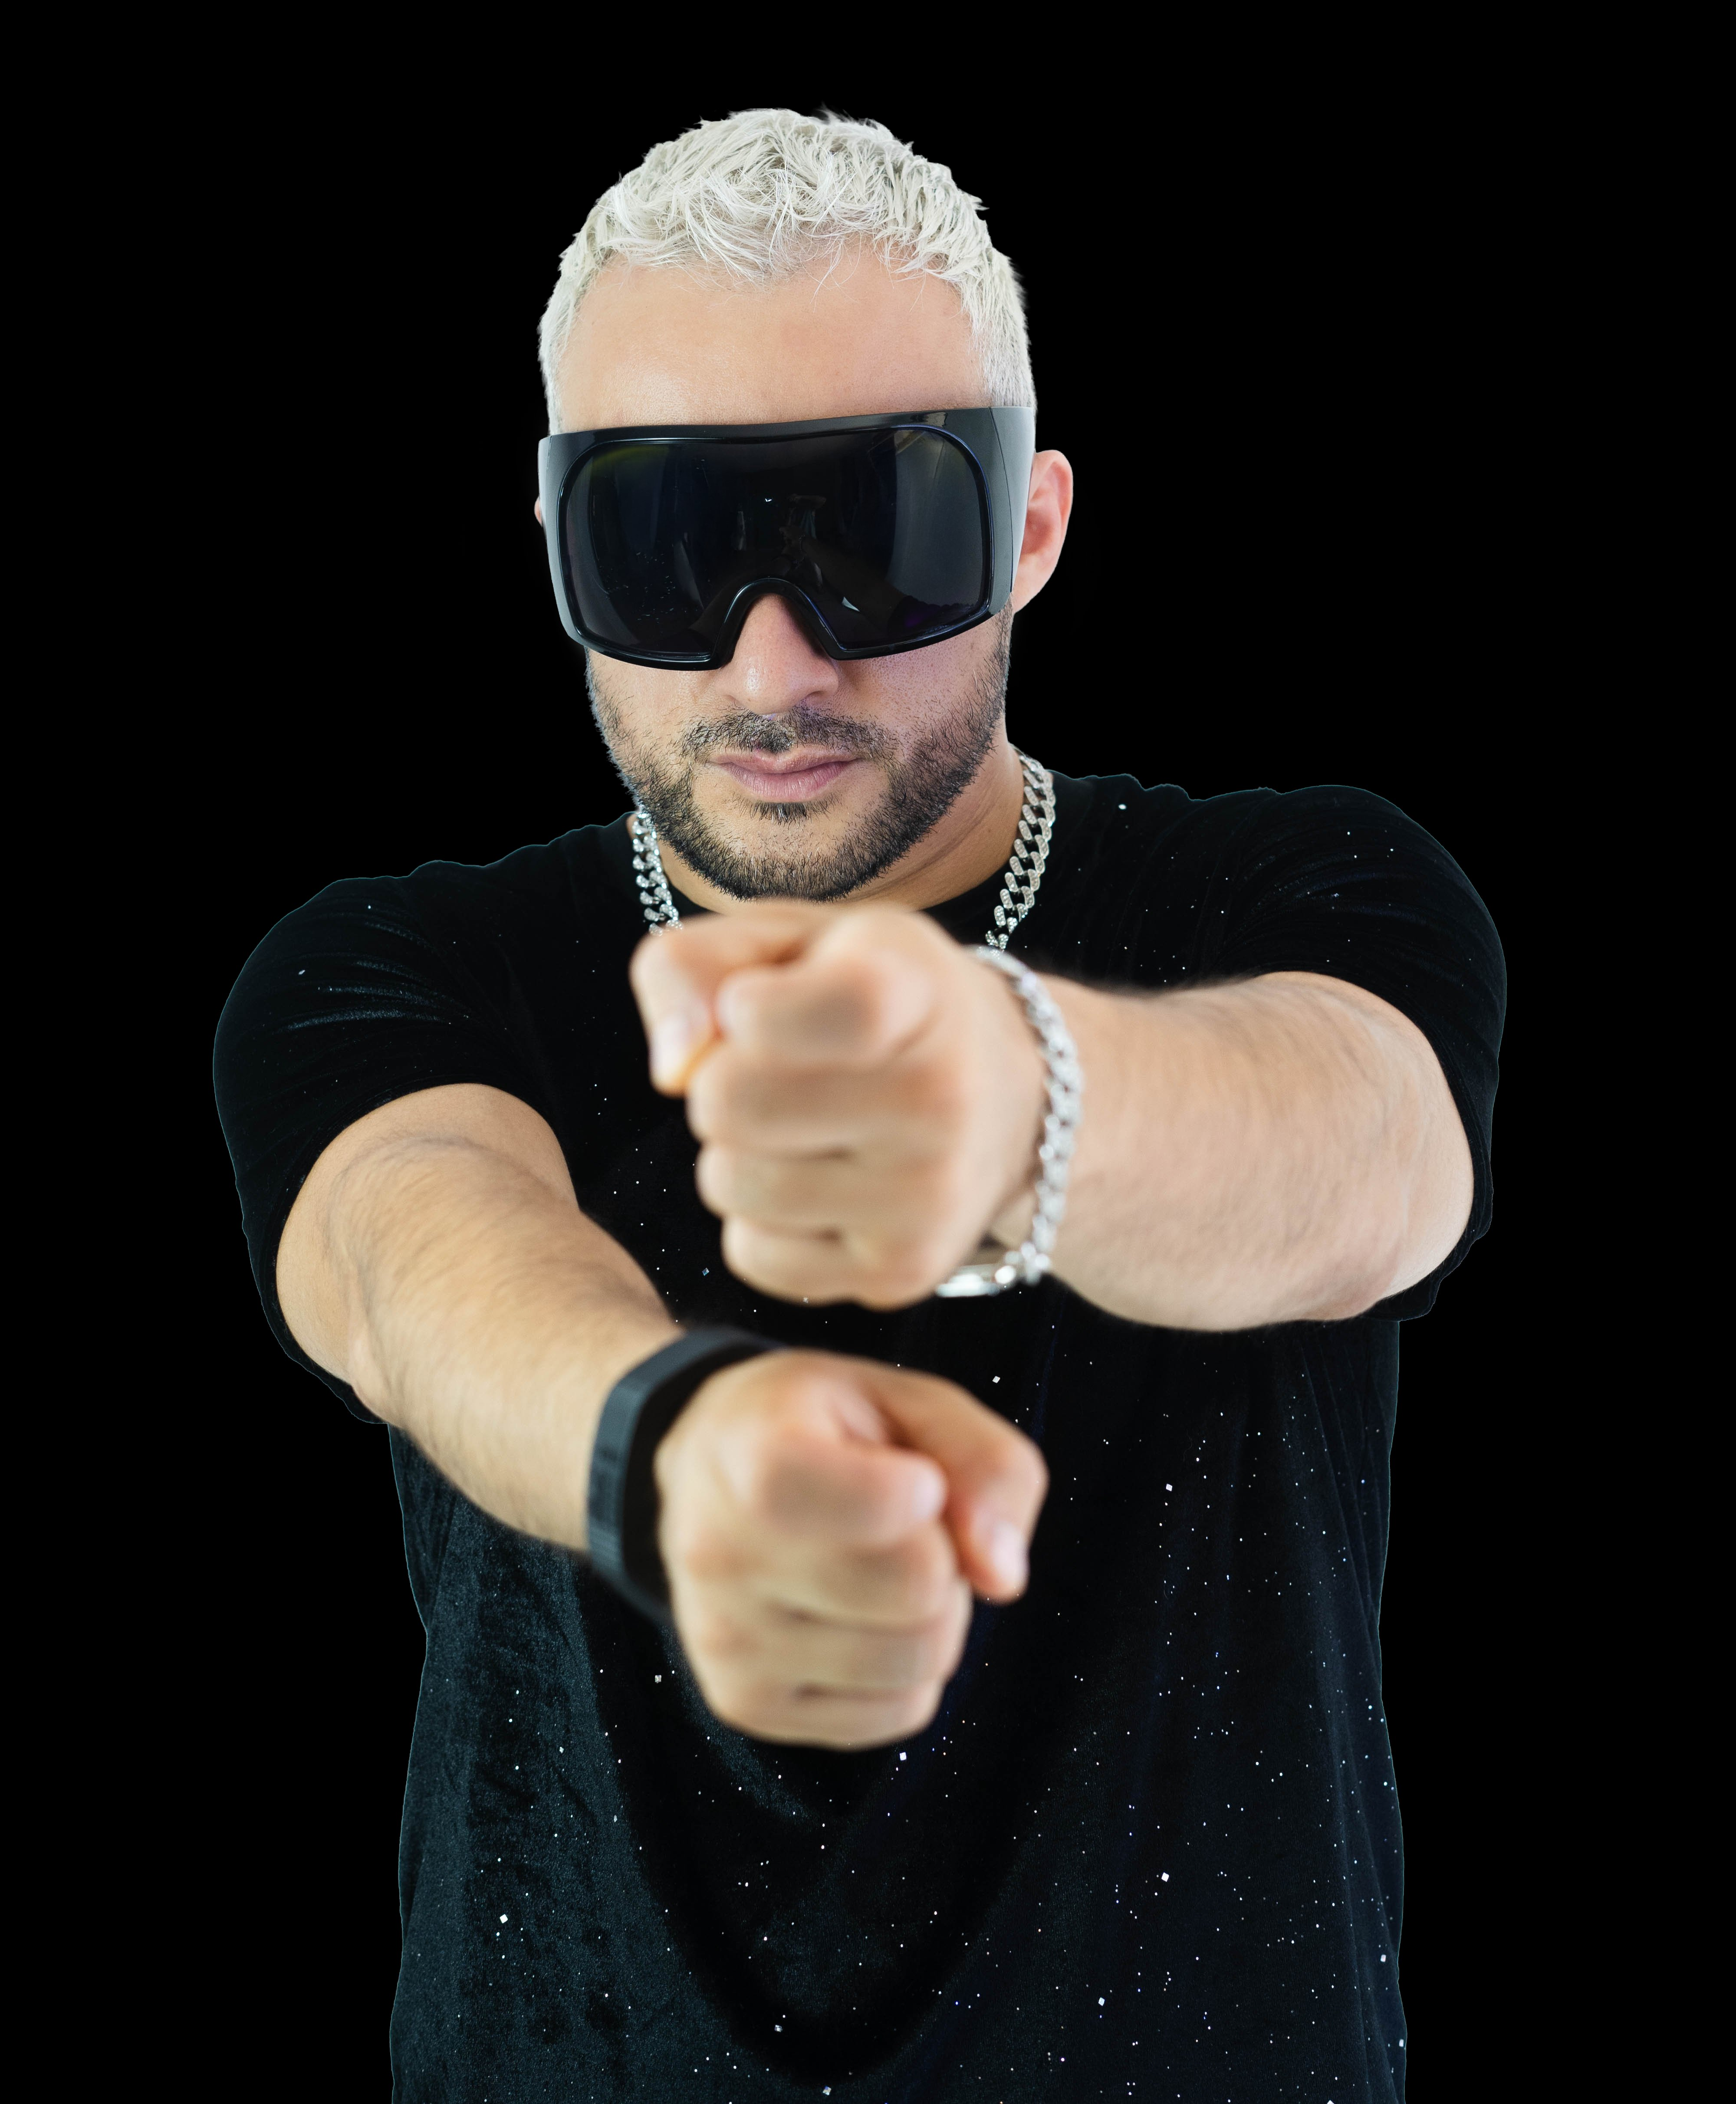
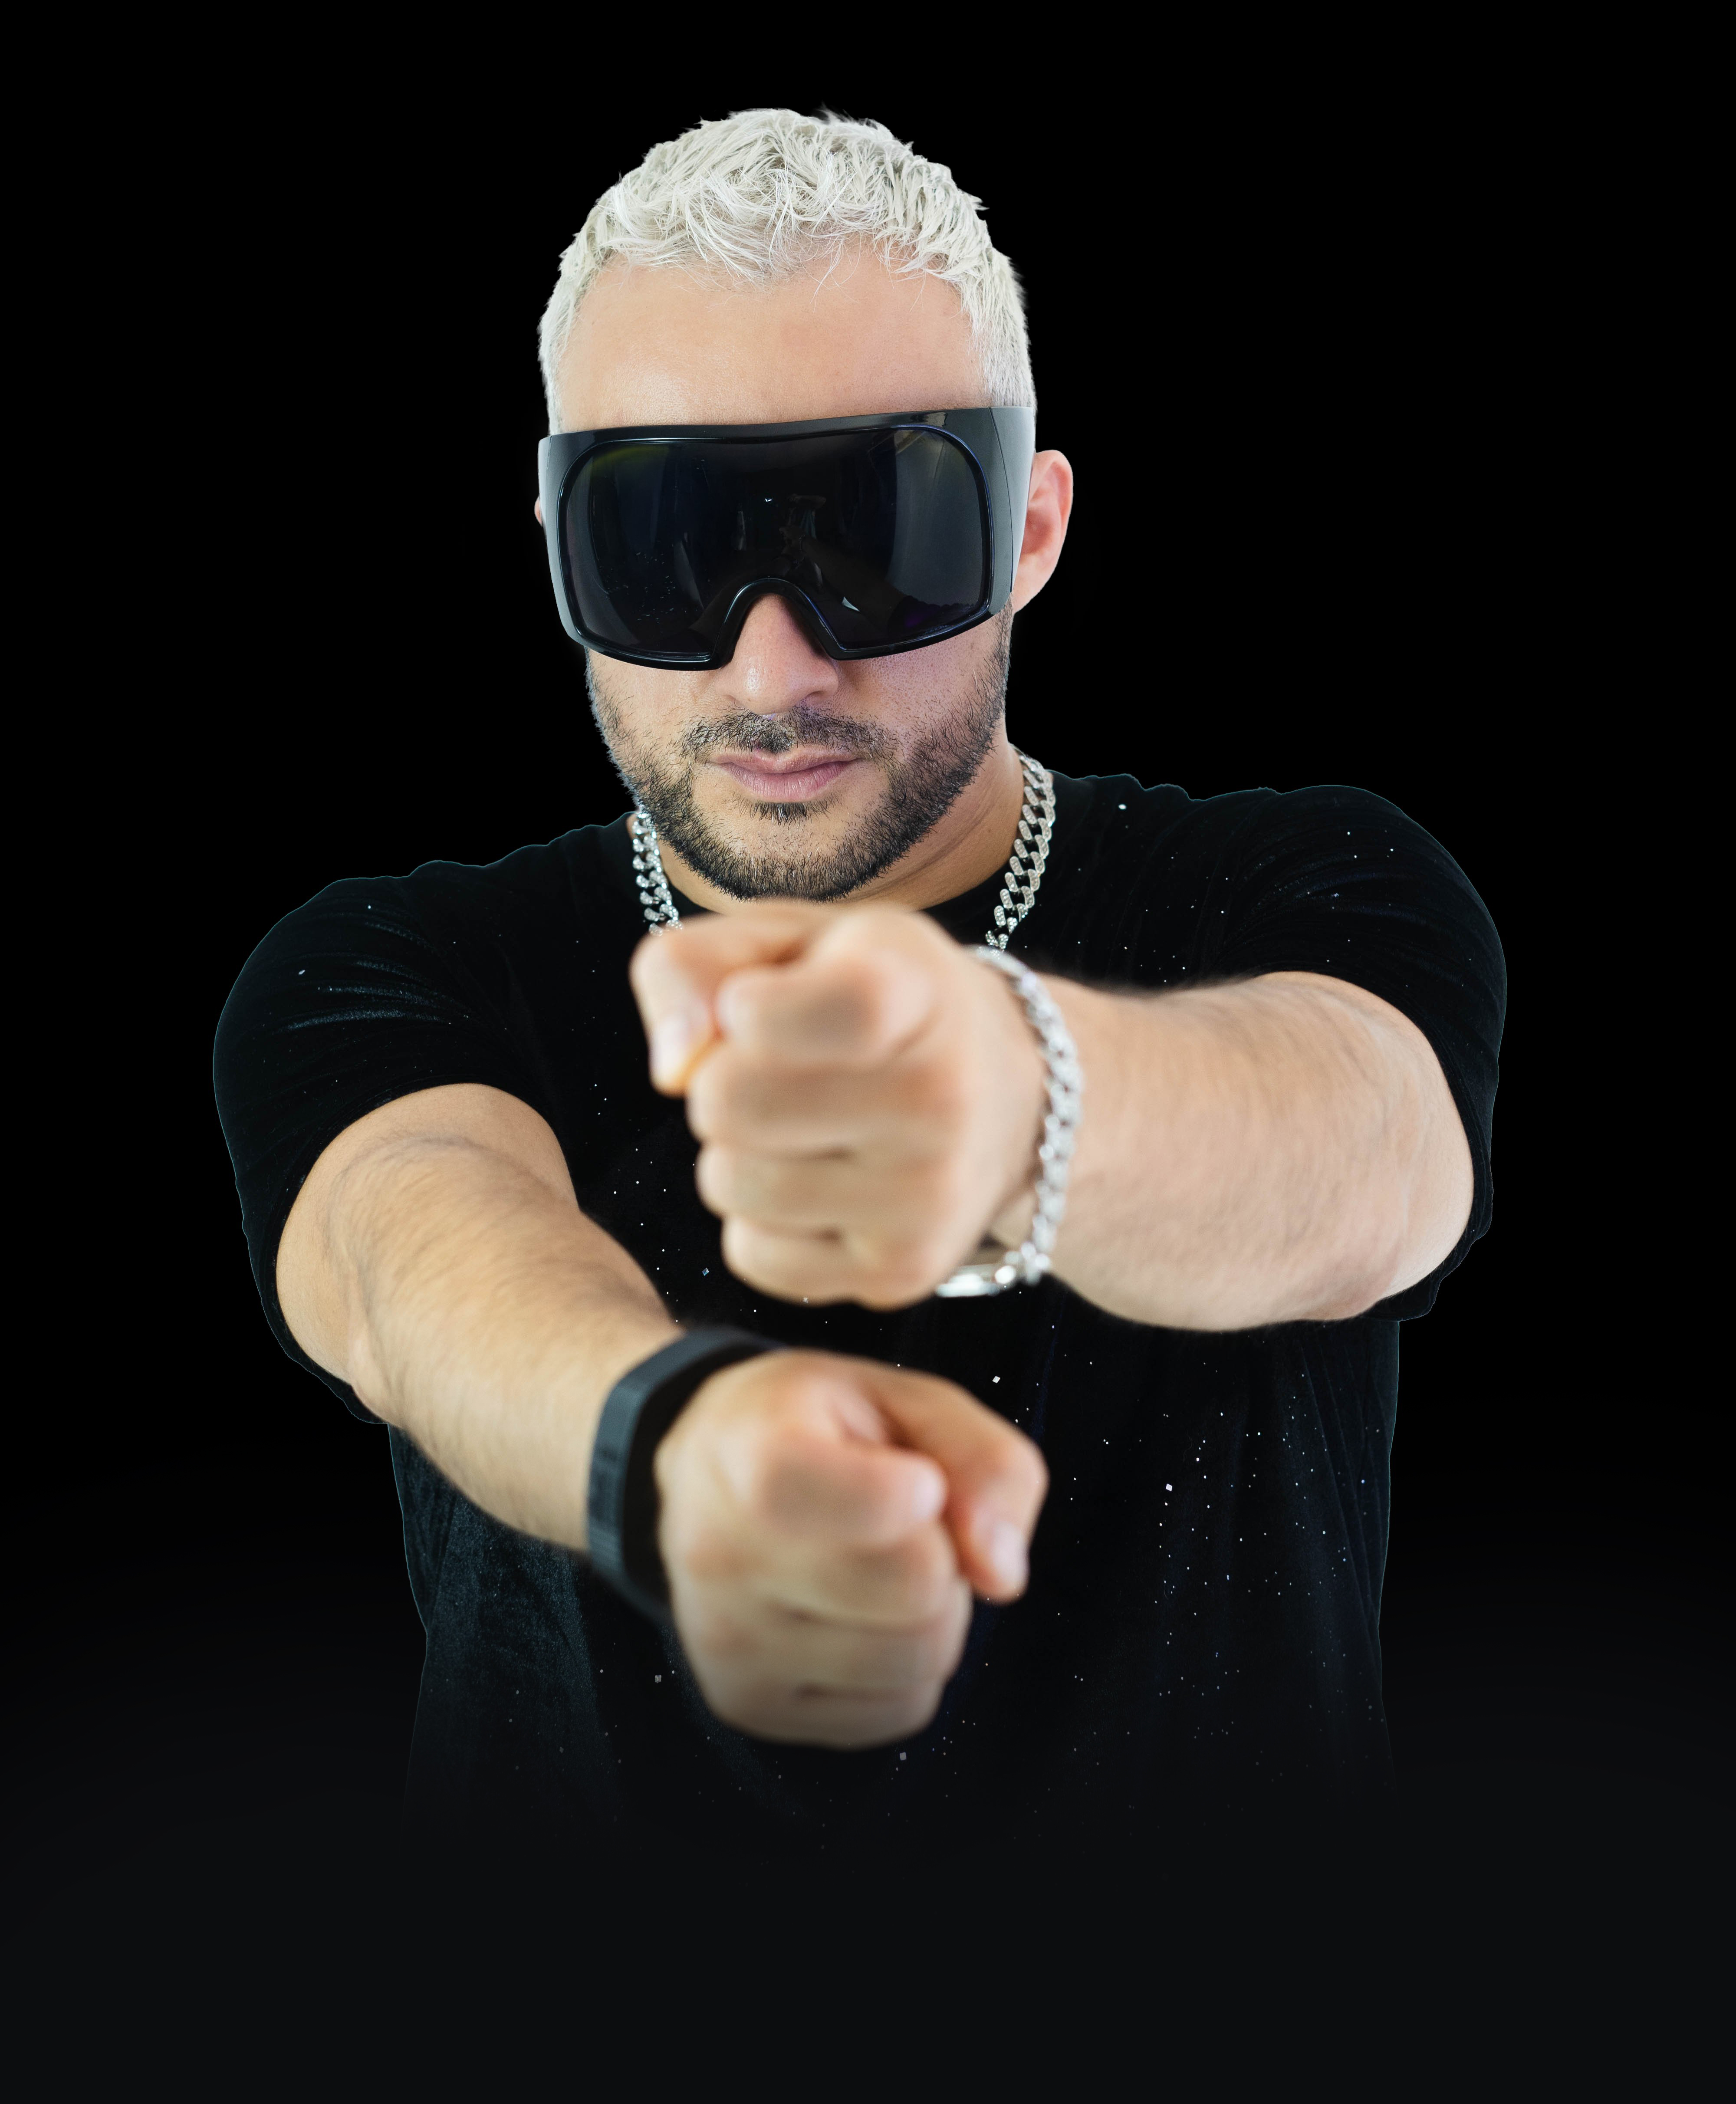
actualizar foto bio

diff --git a/index.html b/index.html
@@ -238,7 +238,7 @@
 <div class="mq"><div class="mq-t" id="mq"></div></div>
 
 <!-- ══ ABOUT ══ -->
-<section id="about" class="about-sec"><img src="images/hero/IMG_6173.PNG" alt="DJ Franz" class="about-photo"><div class="about-overlay"></div><div class="about-content rv-r"><p class="eyebrow">— Quién soy</p><h2 class="about-h">El DJ que<br>mueve <em>Ecuador</em></h2><div class="ab-stats"><div class="ab-st"><span class="ab-sn">20+</span><span class="ab-sl">Años</span></div><div class="ab-st"><span class="ab-sn">50+</span><span class="ab-sl">Artistas</span></div><div class="ab-st"><span class="ab-sn">500+</span><span class="ab-sl">Eventos</span></div></div><div class="about-body"><p>Casi <strong>20 años</strong> de trayectoria. Reconocido por abrir conciertos a más de <strong>50 artistas internacionales</strong> — Maluma, J Balvin, Enrique Iglesias, Carlos Vives, Nicky Jam y muchos más.</p><p>DJ oficial de las <strong>Noches Amarillas de Barcelona S.C.</strong> De gira por la Costa Este de USA con EmerShows. Reconocido por el <strong>Alcalde de Santo Domingo</strong> y la Asamblea Nacional.</p></div><div class="about-btns"><a href="#contact" class="cta-main">Reservar</a><a href="https://wa.me/593997790261?text=Hola%20DJ%20Franz!%20quiero%20más%20información" target="_blank" class="cta-wa">✆ WhatsApp</a></div></div><div class="about-ticker"><div class="at-inner" id="at"></div></div></section>
+<section id="about" class="about-sec"><img src="images/hero/IMG_6169__1_.PNG" alt="DJ Franz" class="about-photo"><div class="about-overlay"></div><div class="about-content rv-r"><p class="eyebrow">— Quién soy</p><h2 class="about-h">El DJ que<br>mueve <em>Ecuador</em></h2><div class="ab-stats"><div class="ab-st"><span class="ab-sn">20+</span><span class="ab-sl">Años</span></div><div class="ab-st"><span class="ab-sn">50+</span><span class="ab-sl">Artistas</span></div><div class="ab-st"><span class="ab-sn">500+</span><span class="ab-sl">Eventos</span></div></div><div class="about-body"><p>Casi <strong>20 años</strong> de trayectoria. Reconocido por abrir conciertos a más de <strong>50 artistas internacionales</strong> — Maluma, J Balvin, Enrique Iglesias, Carlos Vives, Nicky Jam y muchos más.</p><p>DJ oficial de las <strong>Noches Amarillas de Barcelona S.C.</strong> De gira por la Costa Este de USA con EmerShows. Reconocido por el <strong>Alcalde de Santo Domingo</strong> y la Asamblea Nacional.</p></div><div class="about-btns"><a href="#contact" class="cta-main">Reservar</a><a href="https://wa.me/593997790261?text=Hola%20DJ%20Franz!%20quiero%20más%20información" target="_blank" class="cta-wa">✆ WhatsApp</a></div></div><div class="about-ticker"><div class="at-inner" id="at"></div></div></section>
 
 <!-- ══ SERVICES — HORIZONTAL ══ -->
 <section id="services">